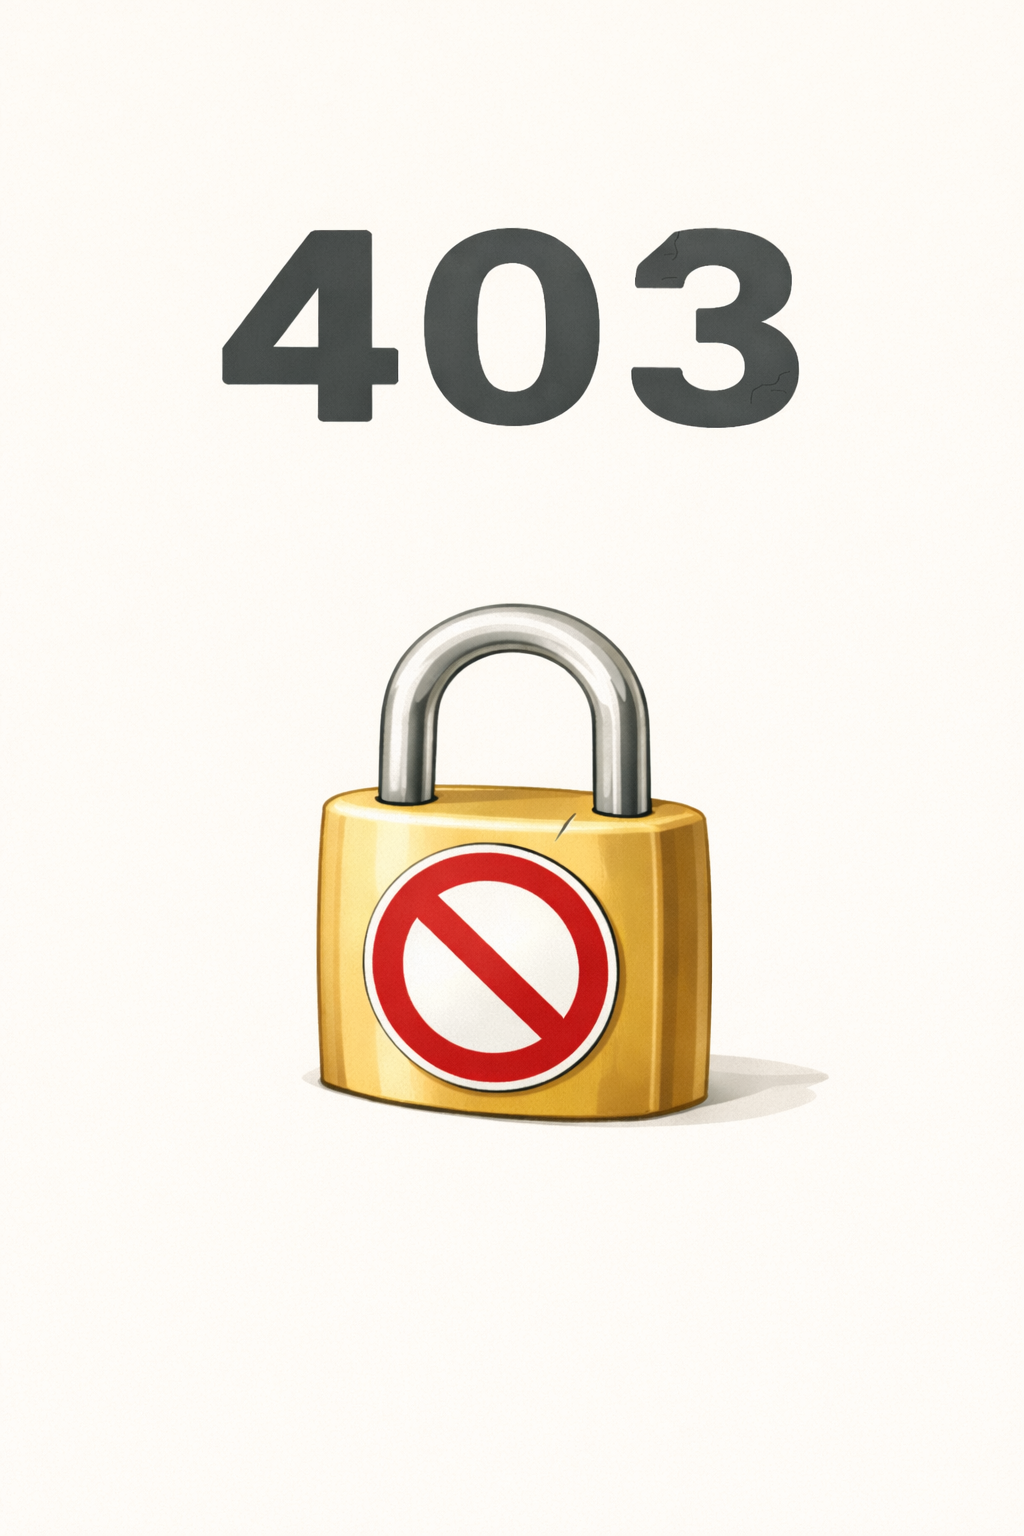
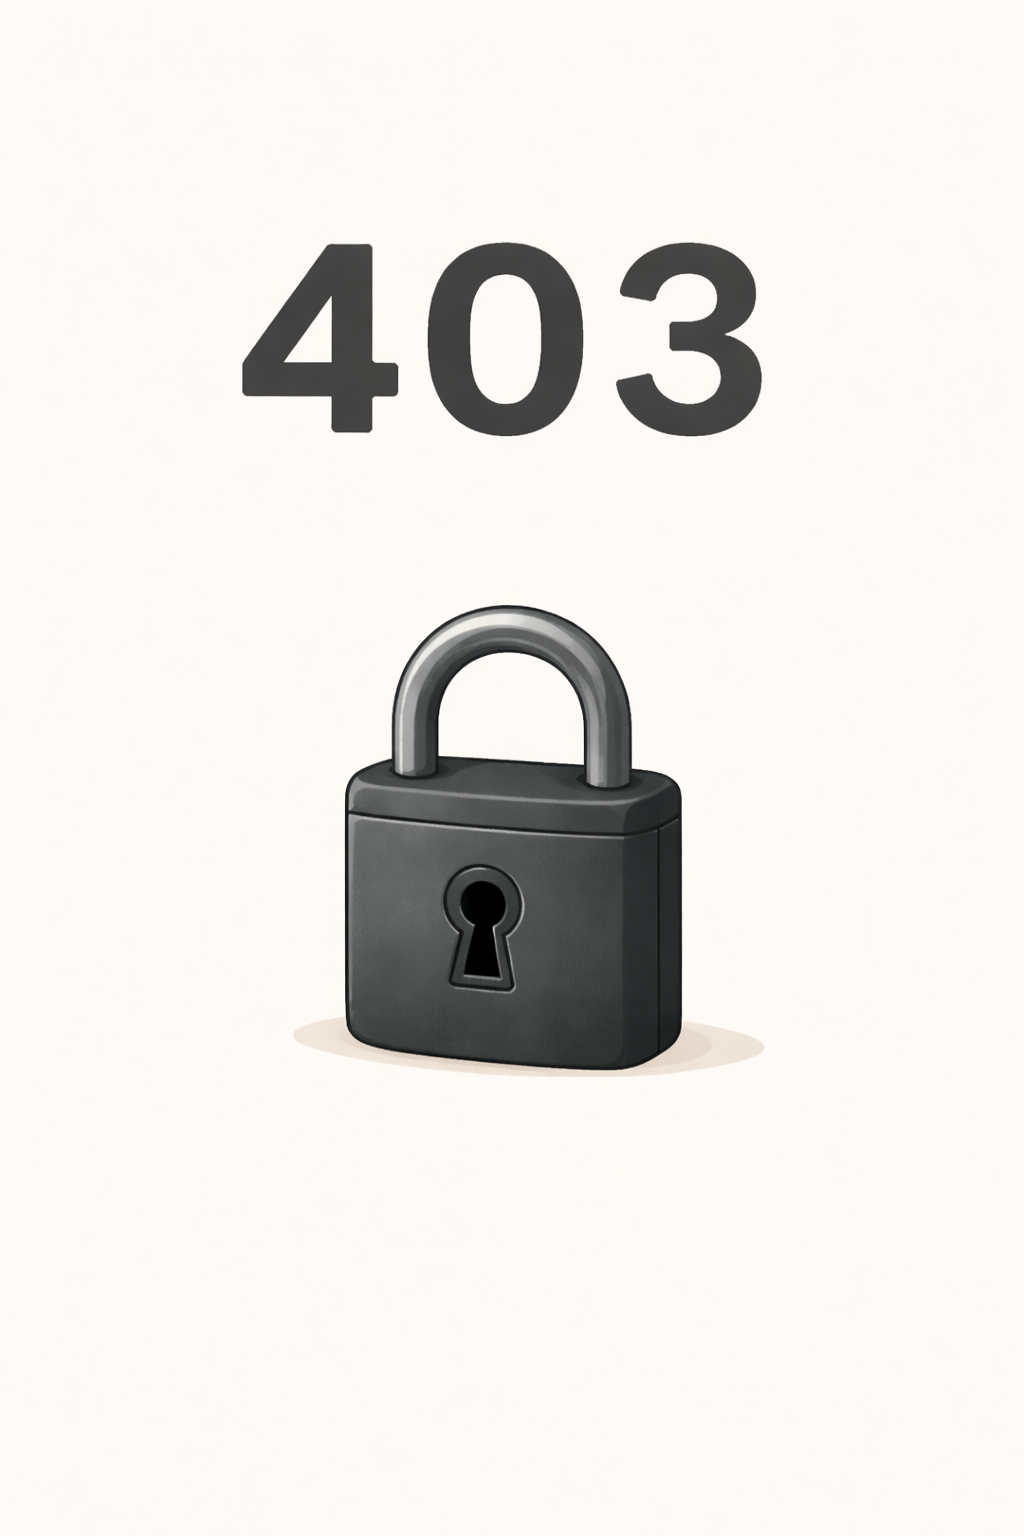
changed 403 page

Changed region(s): [[0.2812, 0.375, 0.8125, 0.75], [0.2188, 0.125, 0.7812, 0.2812]]

diff --git a/frontend/src/components/Pages/Page403/Page403.tsx b/frontend/src/components/Pages/Page403/Page403.tsx
@@ -4,26 +4,20 @@ import page403 from "../../../assets/page403.png";
 interface Page403Props {}
 
 const Page403: FC<Page403Props> = () => (
-  <div className="min-h-screen bg-[#FFFAF1] px-6 rtl text-center font-sans flex justify-center">
-    <div className="w-full max-w-md flex flex-col items-center gap-0 pt-10 pb-8">
-
+  <div className="min-h-80 flex justify-center items-start bg-[#FFFAF1] pt-9 px-8 rtl text-center font-sans">
+    <div className="max-w-md flex flex-col items-center gap-5">
       <img
         src={page403}
-        alt="403 - אין הרשאה"
-        className="w-[280px] h-auto rounded-2xl"
+        alt="403"
+        className="w-[300px] h-auto object-contain"
       />
-
-      <h1 className="text-2xl font-bold text-gray-700 -mt-20">
-
+      <h1 className="-mt-36 text-3xl font-bold text-gray-700">
         אין לך הרשאה לצפות בעמוד הזה
       </h1>
-
-      <a
-        href="/"
-        className="mt-3 inline-block bg-[#0D305B] text-white px-7 py-3 rounded-lg font-semibold text-base transition-transform duration-200 hover:bg-[#0a2340] hover:-translate-y-0.5 hover:shadow-lg"
-      >
-        חזרה לאודות
-      </a>
+      <p className="-mt-2 mb-5 text-lg text-gray-700">
+        פנה למנהל המערכת אם אתה חושב שזו טעות.
+      </p>
+      <a href="/" className="inline-block -mt-7 bg-[#0D305B] text-white px-7 py-3 rounded-lg font-semibold text-base transition-transform duration-200 hover:bg-[#0a2340] hover:shadow-lg">חזרה לאודות</a>
     </div>
   </div>
 );
